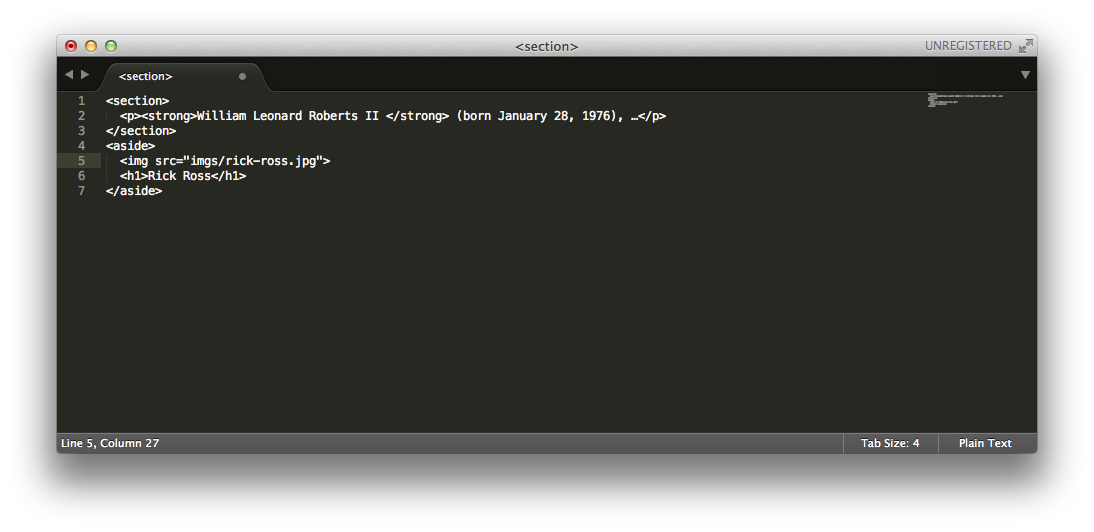
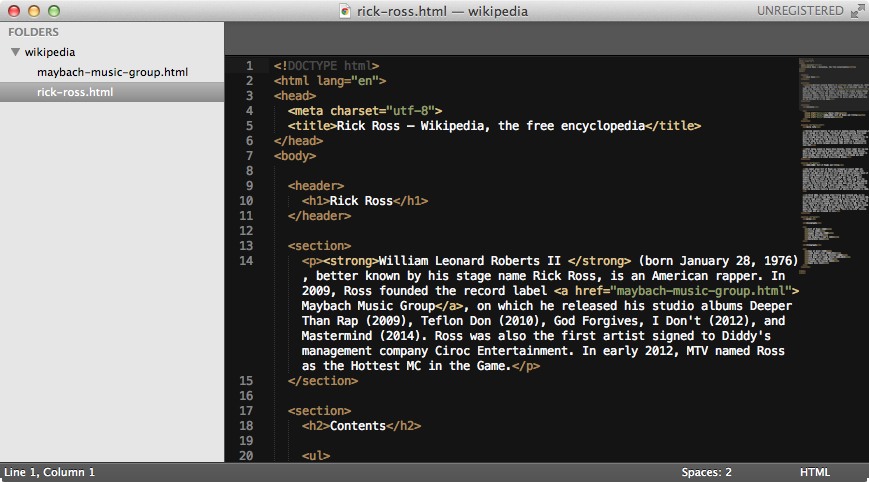
Practice in progress

diff --git a/mcs101.html b/mcs101.html
@@ -770,15 +770,15 @@
       <p>Сейчас мы закодим свой вариант википедии</p>
 
       <p>Откройте, пожалуйста, страницу <a href="http://en.wikipedia.org/wiki/Rick_Ross" target="_blank">Рика Роса</a>.</p>
-      <p>Создайте папку <code>wikipedia</code> внутри нашей папки MCS1.</p>
+      <p>Создайте папку <code>wikipedia</code> внутри нашей папки <code>MCS1</code>.</p>
 
-      <p>Создайте новый файл в текстовом редакторе (File – New File) и сохраните его в папку wikipedia с именем <code>rick-ross.html</code> Пробелы не являются разрешенными символами для адресов страниц, поэтому мы заменяем пробелы на знак «минус». Кроме того, для адресов страниц принято использовать латинские буквы в нижнем регистре.</p>
+      <p>Создайте новый файл в текстовом редакторе (File – New File) и сохраните его в папку <code>wikipedia</code> с именем <code>rick-ross.html</code> Пробелы не являются разрешенными символами для адресов страниц, поэтому мы заменяем пробелы на знак «минус». Кроме того, для адресов страниц принято использовать латинские буквы в нижнем регистре.</p>
 
       <div class="img">
         <img src="imgs/17-rick-ross.png">
       </div>
 
-      <p class="center"><a href="examples/wikipedia/rick-ross.html" target="_blank">Результат</a></p>
+      <p class="center"><a href="examples/rick-ross-v1.html" target="_blank">Результат</a></p>
     </section>
 
     <section>
@@ -824,52 +824,98 @@
       <h3>Ссылки</h3>
       <p>Мы сделали так, чтобы браузер перешел к определенному фрагменту нашей страницы. Но главное качество гипертекста —<br>это ссылки между разными документами.</p>
 
-      <p>В биографии Рика Росса есть ссылка на лейбл <a href="http://en.wikipedia.org/wiki/Maybach_Music_Group" target="_blank">Maybach Music Group</a>.</p>
+      <p>В биографии Рика Росса есть ссылка на лейбл <a href="http://en.wikipedia.org/wiki/Maybach_Music_Group" target="_blank">Maybach Music Group</a>. Создайте новый файл в папке <code>wikipedia</code> с именем <code>maybach-music-group.html</code></p>
 
-      <p>Создайте новый файл в папке <code>wikipedia</code> с именем <code>maybach-music-group.html</code></p>
-
-      <p>Разверните в нём базовую структуру HTML, смените заголовок на название лейбла, создайте как в предидущей страничке заголовок и параграф текста.</p>
+      <p>Разверните в нём базовую структуру HTML, смените заголовок на название лейбла, как в предидущей страничке создайте заголовок и параграф текста. Создайте ещё один параграф и создайте в нём реферальную ссылку как показано ниже.</p>
 
       <div class="img">
         <img src="imgs/19-links1.png">
       </div>
 
-      <p>Теперь давайте вернемся к первому файлу и в нем в каком-нибудь из первых параграфов поставим ссылку на нашу новую страницу</p>
-
-      <div class="img plee">
-        <img src="imgs/19-links2.png">
+      <div class="img">
+        <img src="imgs/19-links2.jpg">
       </div>
 
-      <p>Сохраните оба документа, обновите первую страницу и попробуйте проследовать по ссылкам в обоих документах</p>
-      <br>
-      <p class="center"><a href="examples/example4.html">Результат</a></p>
-      <br>
+      <p class="center"><a href="examples/wikipedia/maybach-music-group.html" target="_blank">Результат</a></p>
+    </section>
+
+    <section>
+      <p>Закройте все окна Sublime Text, в меню выберите Open и в появившемся окне найдите нашу папку <code>wikipedia</code>. Выберите её и нажмите на кнопку Open.</p>
+
+      <p>Мы открыли созданные документы в виде проекта. Панель слева позваляет быстро перемещаться между файлами проекта и видет дерево проекта.</p>
+
+      <p>Теперь давайте вернемся к первому файлу и поставим в нем ссылку на нашу новую страницу. Выберите файл <code>rick-ross.html</code>, найдите в первом параграфе название лейбла на который мы собираемся сослаться, выделите его и нажмите Ctrl + W для того, что бы обернуть текст необходимым нам тегом. В появившемся снизу поле впишите <code class="tagColor">a</code> и нажмите Enter.</p>
+
+      <p>Осталось в свойство атрибута <code class="propertyColor">href</code> вписать название документа на который мы ссылаемся, а именно <code>maybach-music-group.html</code></p>
+
+      <div class="img">
+        <img src="imgs/19-links3.png">
+      </div>
+
+      <p class="center"><a href="examples/rick-ross-v2.html" target="_blank">Результат</a></p>
+    </section>
+
+    <section>
+      <p>Сохраните внесённые изменения, обновите первую страницу и попробуйте проследовать по ссылкам в обоих документах.</p>
+
       <p>Класс! Мы почти закодили википедию!</p>
     </section>
 
     <section>
       <h3>Картинки</h3>
-      <p>В Википедии довольно часто встречаются картинки, давайте добавим какое-нибудь изображение на нашу страницу</p>
+      <p>В Википедии довольно часто встречаются картинки,<br>давайте добавим какое-нибудь изображение на нашу страницу.</p>
 
-      <p>Для вставки изображений используется тэг <code>&lt;img&gt;</code>. Но просто тэга недостаточно, нам нужно уточнить что именно за изображение мы хотим увидеть. Для этого используется аттрибут <code>src</code>. Его значением будет <em>путь</em> к изображению. Понятие «путь», path по-английски, используется постоянно и является одним из важных для понимания терминов.</p>
+      <p>Для вставки изображений используется тэг <code class="tagColor">&lt;img&gt;</code>. Но просто тэга недостаточно, нам нужно уточнить что именно за изображение мы хотим показать. Для этого используется атрибут <code class="propertyColor">src</code>. Его значением будет путь к изображению. Понятие «путь», path по-английски, используется постоянно и является одним из важных для понимания терминов.</p>
+
       <p><strong>Path</strong> — строка текста, содержащая адрес к какому-то ресурсу. Это может быть другой HTML документ, картинка или медиа-объект, вроде аудио или видео. Пока будет проще всего думать о путях как об адресах файлов на файловой системе компьютера, но относительно других файлов.</p>
-    </code></pre>
+
       <p>Вот примеры относительных путей:</p>
-      <p><code>rick-ross.html</code> – путь к файлу rick-ross.html находящийся в той же папке что и ресурс, который ссылается на этот файл</p>
-      <p><code>../index.html</code> — путь к файлу index.html находящийся в родительской папке, один шаг «вверх» по деревеу файлов</p>
-      <p><code>../../typography.css</code></li> – путь к стилю typography.css на два уровня выше в файловой структуре</p>
-      <p><code>imgs/header/logo.png</code> — путь к изображению logo.png на два уровня «ниже» в файловой структуре, в папке header, в папке imgs, которая находится в одной папке с файлом, который ссылается на это изображение</p>
+
+      <table class="centeredTable" id="htmlStructure">
+        <tr>
+          <td><code>rick-ross.html</code></td>
+          <td>Путь к файлу <code>rick-ross.html</code> находящийся в той же папке что и ресурс, который ссылается на этот файл.</td>
+        </tr>
+        <tr>
+          <td><code>../index.html</code></td>
+          <td>Путь к файлу <code>index.html</code> находящийся в родительской папке, один шаг «вверх» в файловой структуре.</td>
+        </tr>
+        <tr>
+          <td><code>../../typography.css</code></td>
+          <td>Путь к стилю <code>typography.css</code> на два уровня выше в файловой структуре.</td>
+        </tr>
+        <tr>
+          <td><code>images/header/logo.png</code></td>
+          <td>Путь к изображению <code>logo.png</code> на два уровня «ниже» в файловой структуре, в папке <code>header</code>, в папке <code>images</code>, которая находится в одной папке с файлом, который ссылается на это изображение.</td>
+        </tr>
+      </table>
     </section>
 
     <section>
-      <p>В папке wikipedia создайте папку imgs, откройте картинку по <a href="imgs/rick-ross.jpg">ссылке</a> и сохраните ее в только что созданную папку imgs.</p>
-      <p>Давайте добавим новую секцию в нашу страницу на википедии сразу за первой секцией с параграфом текста.</p>
+      <p>В папке <code>wikipedia</code> создайте папку <code>images</code>, откройте картинку по <a href="imgs/rick-ross.jpg" target="_blank">ссылке</a> и сохраните ее, в только что созданную папку <code>images</code> под именем<br><code>rick-ross.jpg</code>.</p>
 
-      <div class="img plee">
-        <img src="imgs/19-links3.png">
+      <p>Давайте добавим новый блок на нашу страницу сразу после первой секции с параграфом текста.</p>
+
+      <div class="img">
+        <img src="imgs/19-images.png">
       </div>
 
-      <p class="center"><a href="examples/example5.html">Результат</a></p>
+      <table class="centeredTable" id="htmlStructure">
+        <tr>
+          <td><code>aside</code></td>
+          <td>Тэг, обозначающий контент находящийся в стороне. Как бы не обязательный, а дополнительный контент. Этим тэгом удобно размечать сайдбары.</td>
+        </tr>
+        <tr>
+          <td><code>figure</code></td>
+          <td>Тэг, обозначающий, что внутри будет картинка или какая-то графика, с каким-то значением.</td>
+        </tr>
+        <tr>
+          <td><code>figcaption</code></td>
+          <td>Подпись для <code>figure</code>.</td>
+        </tr>
+      </table>
+
+      <p class="center"><a href="examples/rick-ross-v3.html" target="_blank">Результат</a></p>
     </section>
 
     <section>

diff --git a/examples/rick-ross-v2.html b/examples/rick-ross-v2.html
@@ -1,0 +1,80 @@
+<!DOCTYPE html>
+<html lang="en">
+<head>
+  <meta charset="utf-8">
+  <title>Rick Ross – Wikipedia, the free encyclopedia</title>
+</head>
+<body>
+
+  <header>
+    <h1>Rick Ross</h1>
+  </header>
+
+  <section>
+    <p><strong>William Leonard Roberts II </strong> (born January 28, 1976), better known by his stage name Rick Ross, is an American rapper. In 2009, Ross founded the record label <a href="maybach-music-group.html">Maybach Music Group</a>, on which he released his studio albums Deeper Than Rap (2009), Teflon Don (2010), God Forgives, I Don't (2012), and Mastermind (2014). Ross was also the first artist signed to Diddy's management company Ciroc Entertainment. In early 2012, MTV named Ross as the Hottest MC in the Game.</p>
+  </section>
+
+  <aside>
+    <figure>
+      <img src="images/rick-ross.jpg">
+    </figure>
+    <figcaption>
+      <p>Image credit: Pamela Littky.</p>
+    </figcaption>
+  </aside>
+
+  <section>
+    <h2>Contents</h2>
+
+    <ul>
+      <li><a href="#early-life">Early life</a></li>
+      <li><a href="#miami">2006–2008: Port of Miami and Trilla</a></li>
+      <li><a href="#works">Discography</a></li>
+    </ul>
+  </section>
+
+  <section id="early-life">
+    <h2>Early life</h2>
+
+    <p>William Leonard Roberts II was born in Coahoma County, Mississippi,[5] and raised in Carol City, Florida.[6] After graduating from Miami Carol City Senior High School, he later attended the historically black college Albany State University on a football scholarship.[7] He derived his stage name from the former drug kingpin "Freeway" Rick Ross, to whom he has no connection.[8] Ross worked as a correctional officer for 18 months between December 1995 until his resignation in June 1997.</p>
+
+    <p>After being signed to Suave House Records, former label for rap duo 8Ball & MJG, he eventually signed a deal with Slip-n-Slide Records, which has been under the Def Jam umbrella since 2006. While signed to Slip-n-Slide, Ross toured with fellow rapper Trick Daddy and made guest performances on other Slip-n-Slide albums.</p>
+  </section>
+
+  <section id="miami">
+    <h2>2006–2008: Port of Miami and Trilla</h2>
+    
+    <p>His debut album Port of Miami was released in August 2006 and debuted at the top spot on the US Billboard 200 album chart, with sales at 187,000 units after its first week.[9][10] Christian Hoard of Rolling Stone magazine predicted that it would be "the summer's biggest rap record".[11] The second single was "Push It", which samples "Scarface (Push It to the Limit)", the theme song from the gangster film Scarface.[12] The music video for "Push It" was modeled after the film.[13] During that time, Ross made guest performances on two singles from DJ Khaled's debut Listennn... the Album: "Born-N-Raised" and "Holla at Me". Port of Miami received Gold certification from the Recording Industry Association of America on November 8, 2006.</p>
+
+    <p>In March 2008, his second album Trilla was released and, as its predecessor Port of Miami had, debuted at the top of the Billboard 200.[14] Its lead single "Speedin'" featuring R. Kelly peaked at number 21 on the US Billboard Bubbling Under Hot 100 Singles; the next one, "The Boss" featuring T-Pain peaked at number 17 on the Hot 100. The third single "Here I Am" featured Nelly and Avery Storm.[15] MTV News ranked Ross on the fourth spot in its 2008 "Hottest MCs in the Game" list among ten rappers.[16] The fourth single "This Is The Life" featured Trey Songz and was released in July.</p>
+  </section>
+
+  <section id="works">
+    <h2>Works</h2>
+
+    <h3>Discography</h3>
+
+    <ul>
+      <li>Port of Miami (2006)</li>
+      <li>Trilla (2008)</li>
+      <li>Deeper Than Rap (2009)</li>
+      <li>Teflon Don(2010)</li>
+      <li>God Forgives, I Don't (2012)</li>
+      <li>Mastermind (2014)</li>
+    </ul>
+
+    <h3>Filmography</h3>
+
+    <ul>
+      <li>Days of Wrath (2008)</li>
+      <li>Jimmy Kimmel Live! (2008-2012)</li>
+      <li>Late Show with David Letterman (2009)</li>
+      <li>Late Night with Jimmy Fallon (2009-2010)</li>
+      <li>Chelsea Lately (2010-2012)</li>
+      <li>Freaknik: The Musical (2010)</li>
+      <li>Magic City (2013)</li>
+    </ul>
+  </section>
+
+</body>
+</html>

diff --git a/examples/rick-ross-v3.html b/examples/rick-ross-v3.html
@@ -1,0 +1,78 @@
+<!DOCTYPE html>
+<html lang="en">
+<head>
+  <meta charset="utf-8">
+  <title>Rick Ross – Wikipedia, the free encyclopedia</title>
+</head>
+<body>
+
+  <header>
+    <h1>Rick Ross</h1>
+  </header>
+
+  <section>
+    <p><strong>William Leonard Roberts II </strong> (born January 28, 1976), better known by his stage name Rick Ross, is an American rapper. In 2009, Ross founded the record label <a href="maybach-music-group.html">Maybach Music Group</a>, on which he released his studio albums Deeper Than Rap (2009), Teflon Don (2010), God Forgives, I Don't (2012), and Mastermind (2014). Ross was also the first artist signed to Diddy's management company Ciroc Entertainment. In early 2012, MTV named Ross as the Hottest MC in the Game.</p>
+  </section>
+
+  <aside>
+    <figure>
+      <img src="images/rick-ross.jpg">
+      <figcaption>Image credit: Pamela Littky.</figcaption>
+    </figure>
+  </aside>
+
+  <section>
+    <h2>Contents</h2>
+
+    <ul>
+      <li><a href="#early-life">Early life</a></li>
+      <li><a href="#miami">2006–2008: Port of Miami and Trilla</a></li>
+      <li><a href="#works">Discography</a></li>
+    </ul>
+  </section>
+
+  <section id="early-life">
+    <h2>Early life</h2>
+
+    <p>William Leonard Roberts II was born in Coahoma County, Mississippi,[5] and raised in Carol City, Florida.[6] After graduating from Miami Carol City Senior High School, he later attended the historically black college Albany State University on a football scholarship.[7] He derived his stage name from the former drug kingpin "Freeway" Rick Ross, to whom he has no connection.[8] Ross worked as a correctional officer for 18 months between December 1995 until his resignation in June 1997.</p>
+
+    <p>After being signed to Suave House Records, former label for rap duo 8Ball & MJG, he eventually signed a deal with Slip-n-Slide Records, which has been under the Def Jam umbrella since 2006. While signed to Slip-n-Slide, Ross toured with fellow rapper Trick Daddy and made guest performances on other Slip-n-Slide albums.</p>
+  </section>
+
+  <section id="miami">
+    <h2>2006–2008: Port of Miami and Trilla</h2>
+    
+    <p>His debut album Port of Miami was released in August 2006 and debuted at the top spot on the US Billboard 200 album chart, with sales at 187,000 units after its first week.[9][10] Christian Hoard of Rolling Stone magazine predicted that it would be "the summer's biggest rap record".[11] The second single was "Push It", which samples "Scarface (Push It to the Limit)", the theme song from the gangster film Scarface.[12] The music video for "Push It" was modeled after the film.[13] During that time, Ross made guest performances on two singles from DJ Khaled's debut Listennn... the Album: "Born-N-Raised" and "Holla at Me". Port of Miami received Gold certification from the Recording Industry Association of America on November 8, 2006.</p>
+
+    <p>In March 2008, his second album Trilla was released and, as its predecessor Port of Miami had, debuted at the top of the Billboard 200.[14] Its lead single "Speedin'" featuring R. Kelly peaked at number 21 on the US Billboard Bubbling Under Hot 100 Singles; the next one, "The Boss" featuring T-Pain peaked at number 17 on the Hot 100. The third single "Here I Am" featured Nelly and Avery Storm.[15] MTV News ranked Ross on the fourth spot in its 2008 "Hottest MCs in the Game" list among ten rappers.[16] The fourth single "This Is The Life" featured Trey Songz and was released in July.</p>
+  </section>
+
+  <section id="works">
+    <h2>Works</h2>
+
+    <h3>Discography</h3>
+
+    <ul>
+      <li>Port of Miami (2006)</li>
+      <li>Trilla (2008)</li>
+      <li>Deeper Than Rap (2009)</li>
+      <li>Teflon Don(2010)</li>
+      <li>God Forgives, I Don't (2012)</li>
+      <li>Mastermind (2014)</li>
+    </ul>
+
+    <h3>Filmography</h3>
+
+    <ul>
+      <li>Days of Wrath (2008)</li>
+      <li>Jimmy Kimmel Live! (2008-2012)</li>
+      <li>Late Show with David Letterman (2009)</li>
+      <li>Late Night with Jimmy Fallon (2009-2010)</li>
+      <li>Chelsea Lately (2010-2012)</li>
+      <li>Freaknik: The Musical (2010)</li>
+      <li>Magic City (2013)</li>
+    </ul>
+  </section>
+
+</body>
+</html>

diff --git a/examples/rick-ross-v1.html b/examples/rick-ross-v1.html
@@ -1,0 +1,71 @@
+<!DOCTYPE html>
+<html lang="en">
+<head>
+  <meta charset="utf-8">
+  <title>Rick Ross – Wikipedia, the free encyclopedia</title>
+</head>
+<body>
+
+  <header>
+    <h1>Rick Ross</h1>
+  </header>
+
+  <section>
+    <p><strong>William Leonard Roberts II </strong> (born January 28, 1976), better known by his stage name Rick Ross, is an American rapper. In 2009, Ross founded the record label Maybach Music Group, on which he released his studio albums Deeper Than Rap (2009), Teflon Don (2010), God Forgives, I Don't (2012), and Mastermind (2014). Ross was also the first artist signed to Diddy's management company Ciroc Entertainment. In early 2012, MTV named Ross as the Hottest MC in the Game.</p>
+  </section>
+
+  <section>
+    <h2>Contents</h2>
+
+    <ul>
+      <li><a href="#early-life">Early life</a></li>
+      <li><a href="#miami">2006–2008: Port of Miami and Trilla</a></li>
+      <li><a href="#works">Discography</a></li>
+    </ul>
+  </section>
+
+  <section id="early-life">
+    <h2>Early life</h2>
+
+    <p>William Leonard Roberts II was born in Coahoma County, Mississippi,[5] and raised in Carol City, Florida.[6] After graduating from Miami Carol City Senior High School, he later attended the historically black college Albany State University on a football scholarship.[7] He derived his stage name from the former drug kingpin "Freeway" Rick Ross, to whom he has no connection.[8] Ross worked as a correctional officer for 18 months between December 1995 until his resignation in June 1997.</p>
+
+    <p>After being signed to Suave House Records, former label for rap duo 8Ball & MJG, he eventually signed a deal with Slip-n-Slide Records, which has been under the Def Jam umbrella since 2006. While signed to Slip-n-Slide, Ross toured with fellow rapper Trick Daddy and made guest performances on other Slip-n-Slide albums.</p>
+  </section>
+
+  <section id="miami">
+    <h2>2006–2008: Port of Miami and Trilla</h2>
+    
+    <p>His debut album Port of Miami was released in August 2006 and debuted at the top spot on the US Billboard 200 album chart, with sales at 187,000 units after its first week.[9][10] Christian Hoard of Rolling Stone magazine predicted that it would be "the summer's biggest rap record".[11] The second single was "Push It", which samples "Scarface (Push It to the Limit)", the theme song from the gangster film Scarface.[12] The music video for "Push It" was modeled after the film.[13] During that time, Ross made guest performances on two singles from DJ Khaled's debut Listennn... the Album: "Born-N-Raised" and "Holla at Me". Port of Miami received Gold certification from the Recording Industry Association of America on November 8, 2006.</p>
+
+    <p>In March 2008, his second album Trilla was released and, as its predecessor Port of Miami had, debuted at the top of the Billboard 200.[14] Its lead single "Speedin'" featuring R. Kelly peaked at number 21 on the US Billboard Bubbling Under Hot 100 Singles; the next one, "The Boss" featuring T-Pain peaked at number 17 on the Hot 100. The third single "Here I Am" featured Nelly and Avery Storm.[15] MTV News ranked Ross on the fourth spot in its 2008 "Hottest MCs in the Game" list among ten rappers.[16] The fourth single "This Is The Life" featured Trey Songz and was released in July.</p>
+  </section>
+
+  <section id="works">
+    <h2>Works</h2>
+
+    <h3>Discography</h3>
+
+    <ul>
+      <li>Port of Miami (2006)</li>
+      <li>Trilla (2008)</li>
+      <li>Deeper Than Rap (2009)</li>
+      <li>Teflon Don(2010)</li>
+      <li>God Forgives, I Don't (2012)</li>
+      <li>Mastermind (2014)</li>
+    </ul>
+
+    <h3>Filmography</h3>
+
+    <ul>
+      <li>Days of Wrath (2008)</li>
+      <li>Jimmy Kimmel Live! (2008-2012)</li>
+      <li>Late Show with David Letterman (2009)</li>
+      <li>Late Night with Jimmy Fallon (2009-2010)</li>
+      <li>Chelsea Lately (2010-2012)</li>
+      <li>Freaknik: The Musical (2010)</li>
+      <li>Magic City (2013)</li>
+    </ul>
+  </section>
+
+</body>
+</html>

diff --git a/examples/rick-ross-aside-image.html b/examples/rick-ross-aside-image.html
@@ -1,0 +1,20 @@
+<section>
+  <p><strong>William Leonard Roberts II </strong> (born January 28, 1976), better known by his stage name Rick Ross, is an American rapper. In 2009, Ross founded the record label <a href="maybach-music-group.html">Maybach Music Group</a>, on which he released his studio albums Deeper Than Rap (2009), Teflon Don (2010), God Forgives, I Don't (2012), and Mastermind (2014). Ross was also the first artist signed to Diddy's management company Ciroc Entertainment. In early 2012, MTV named Ross as the Hottest MC in the Game.</p>
+</section>
+
+<aside>
+  <figure>
+    <img src="images/rick-ross.jpg">
+    <figcaption>Image credit: Pamela Littky.</figcaption>
+  </figure>
+</aside>
+
+<section>
+  <h2>Contents</h2>
+
+  <ul>
+    <li><a href="#early-life">Early life</a></li>
+    <li><a href="#miami">2006–2008: Port of Miami and Trilla</a></li>
+    <li><a href="#works">Discography</a></li>
+  </ul>
+</section>

diff --git a/examples/rick-ross-href.html b/examples/rick-ross-href.html
@@ -1,0 +1,3 @@
+<section>
+  <p><strong>William Leonard Roberts II</strong> (born January 28, 1976), better known by his stage name Rick Ross, is an American rapper. In 2009, Ross founded the record label <a href="maybach-music-group.html">Maybach Music Group</a>, on which he released his studio albums Deeper Than Rap (2009), Teflon Don (2010), God Forgives, I Don't (2012), and Mastermind (2014). Ross was also the first artist signed to Diddy's management company Ciroc Entertainment. In early 2012, MTV named Ross as the Hottest MC in the Game.</p>
+</section>
